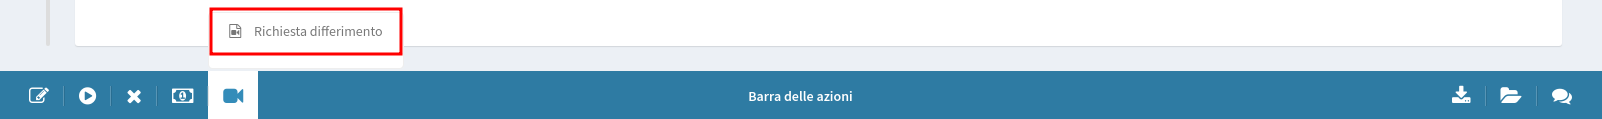
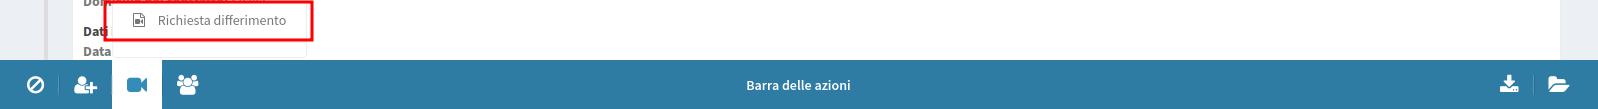
Definizione e provvedimento

diff --git a/manuale-operatore/introduzione/istanza.rst b/manuale-operatore/introduzione/istanza.rst
@@ -1,0 +1,79 @@
+Operazioni generiche sulle istanze
+==================================
+
+Assegnazione incaricato del procedimento
+~~~~~~~~~~~~~~~~~~~~~~~~~~~~~~~~~~~~~~~~
+
+.. _section-responsabile:
+
+Gli utenti con ruolo "Segretario operatore" dovranno assegnare un utente incaricato per ciascuna istanza. L'utente incaricato sarà coloui che potrà operare sull'istanza.
+
+L'incaricato può essere variato se necessario.
+
+.. figure:: /media/barra_azioni_responsabile.png
+   :align: center
+   :name: barra-azioni-responsabile
+   :alt: Assegna incaricato barra azioni
+   
+   Azioni - Assegnazione incaricato del procedimento
+
+Per assegnare un utente o variare quello presente premere su "Assegna incaricato" dalla barra delle azioni. Selezionare l'utente desiderato e premere "Assegna".
+
+Assegnazione ad altra segreteria
+~~~~~~~~~~~~~~~~~~~~~~~~~~~~~~~~
+
+Gli utenti con ruolo "Segretario operatore" potranno assegnare l'istanza ad altra segretria dell'operatore.
+
+.. figure:: /media/barra_azioni_segreteria.png
+   :align: center
+   :name: barra-azioni-segreteria
+   :alt: Assegnazione ad altra segreteria
+   
+   Azioni - Assegnazione ad altra segreteria
+
+Per assegnare un'altra segreteria selezionarla dall'elenco e premere "Assegna ad altra segreteria".
+
+Mancata adesione
+~~~~~~~~~~~~~~~~
+
+Gli utenti con ruolo "Segretario operatore" possono decidere di non aderire all'istanza.
+
+.. figure:: /media/barra_azioni_nonadesione.png
+   :align: center
+   :name: barra-azioni-nonadesione
+   :alt: Mancata adesione
+   
+   Azioni - Mancata adesione
+
+Richiesta inammissibilità/improcedibilità
+~~~~~~~~~~~~~~~~~~~~~~~~~~~~~~~
+
+Se l'istanza è ritenuta non valida, è possibile segnalarlo al Corecom/Agcom con relativa motivazione.
+
+Tale segnalazione sarà notificata alle parti e il Corecom/Agcom deciderà se accettare archiviando l'istanza oppure rifiutare tale osservazione facendo proseguire l'iter.
+
+.. figure:: /media/barra_azioni_inamm.png
+   :align: center
+   :name: barra-azioni-inamm
+   :alt: Richiesta inammissibilità/improcedibilità
+   
+   Azioni - Richiesta inammissibilità/improcedibilità
+
+Download fascicolo documentale
+~~~~~~~~~~~~~~~~~~~~~~~~~~~~~~
+
+Dalla varra delle azioni è possibile scaricare un file zip contentete tutti i documenti presenti sul fascicolo documentale.
+
+.. figure:: /media/barra_azioni_downfascicolo.png
+   :align: center
+   :name: barra-azioni-downfascicolo
+   :alt: Downloadf fascicolo barra azioni
+   
+   Azioni - Download fascicolo
+
+Firma
+~~~~~
+
+.. _section-firma:
+
+La firma dei verbali avvienete tramite OTP ricevuto per email o sms.

diff --git a/manuale-operatore/gu14/udienza.rst b/manuale-operatore/gu14/udienza.rst
@@ -1,0 +1,32 @@
+Udienza di definizione
+======================
+
+Il responsabile del procedimento, se necessario, può convocare l'udienza. In tal caso, sul :ref:`Fascicolo documentale <section-fascicolo-documentale>` sarà presente il verbale di convocazione e sul dettaglio del procedimento sarà indicata la data, l'ora e le modalità di svolgimento.
+Il giorno e l'ora di svolgimento dell'udienza saranno indicate anche sul dettaglio del procedimento.
+In caso di svolgimento dell'udienza in :ref:`virtual room <section-udienza-vr-gu14>`, il giorno prefisatto per l'udienza, sul dettaglio compariranno le informazioni utili per la partecipazione.
+
+Richiesta di differimento udienza
+~~~~~~~~~~~~~~~~~~~~~~~~~~~~~~~~~
+
+L'incaricato potrà richiedere il differimento della data di udienza in caso di giustificate motivazioni. Tale azione è possibile fino al giorno prima dell'udienza e se non è già in corso un'altra richiesta di differimento.
+
+.. figure:: /media/barra_azioni_richdifferimento.png
+   :align: center
+   :name: barra-azioni-richdifferimento
+   :alt: Richiesta differimento barra azioni
+   
+   Azioni - Richiesta differimento udienza
+
+.. figure:: /media/motivazione_richdifferimento.png
+   :align: center
+   :name: motivazione-richdifferimento
+   :alt: Motivazione richiesta differimento
+   
+   Motivazione richiesta differimento udienza
+
+Partecipazione all'udienza in virtual room
+~~~~~~~~~~~~~~~~~~~~~~~~~~~~~~~~~~~~~~~~~~
+
+.. _section-udienza-vr-gu14:
+
+Nel caso in cui il responsabile del procedimento abbia indicato come modalità di svolgimento la virtual room, il giorno dell'udienza compariranno sul dettaglio del procedimento il link e il numero di telefono per parteciparvi.

diff --git a/manuale-operatore/gu5.rst b/manuale-operatore/gu5.rst
@@ -1,4 +1,20 @@
 Istanza di provvedimento temporaneo (modello GU5)
 =================================================
 
+In questa sezione saranno analizzate le azioni possibili sui singoli provvedimenti temporanei, in funzione dello stato in cui si trova il provvedimento e da chi possono essere fatte.
 
+L'applicazione mostrerà solo i pulsanti delle operazioni permesse tenendo presente lo stato del provvedimento e il ruolo di chi lo sta visulaizzando:
+- **Guest**: può solo visualizzare i dati dei provvedimenti temporanei senza poter compiere alcuna operazione.
+- **Operatore**: può compiere tutte le azioni sui provvedimenti temporanei a lui assegnati.
+- **Segretario operatore**: può compiere tutte le azioni sui provvedimenti temporanei della segreteria di appartenenza.
+
+Entrando nel dettaglio del provvedimento temporaneo è possibile accedere alla barra delle azioni, nella quale sono presenti i pulsanti delle azioni disponibili e al fascicolo documentale.
+
+.. toctree::
+  :maxdepth: 3
+  :hidden:
+  :caption: Istanza di provvedimento temporaneo
+
+  gu5/fascicolo-documentale.rst
+  gu5/risposta-richistruttoria.rst
+  gu5/segn-ottemperanza.rst

diff --git a/manuale-operatore/gu14.rst b/manuale-operatore/gu14.rst
@@ -1,4 +1,19 @@
 Istanza di definizione (Modello GU14)
 =====================================
 
+In questa sezione saranno analizzate le azioni possibili sui singoli procedimenti di definizione, in funzione dello stato in cui si trova il procedimento e da chi possono essere fatte.
 
+L'applicazione mostrerà solo i pulsanti delle operazioni permesse tenendo presente lo stato del procedimento e il ruolo di chi sta visulaizzando il procedimento:
+- **Guest**: può solo visualizzare i dati della definizione senza poter compiere alcuna operazione.
+- **Responsabile operatore**: può compiere tutte le azioni sulle definizioni a lui assegnate.
+- **Operatore**: può compiere tutte le azioni sulle definizioni della segreteria di appartenenza.
+
+.. toctree::
+  :maxdepth: 3
+  :hidden:
+  :caption: Istanza di definizione
+
+  gu14/fascicolo-documentale.rst
+  gu14/memoriecontrodeduzioni.rst
+  gu14/risposta-richistruttoria.rst
+  gu14/udienza.rst

diff --git a/manuale-operatore/ug.rst b/manuale-operatore/ug.rst
@@ -4,7 +4,7 @@ Istanza di conciliazione (Modello UG)
 In questa sezione saranno analizzate le azioni possibili sui singoli procedimenti di conciliazione, in funzione dello stato in cui si trova il procedimento e da chi possono essere fatte.
 
 L'applicazione mostrerà solo i pulsanti delle operazioni permesse tenendo presente lo stato del procedimento e il ruolo di chi sta visulaizzado il procedimento:
-- *Guest*: può solo visualizzare i dati della conciliazione senza poter compiere alcuna operazione.
+- **Guest**: può solo visualizzare i dati della conciliazione senza poter compiere alcuna operazione.
 - **Responsabile operatore**: può compiere tutte le azioni sulle conciliaizoni a lui assegnate.
 - **Operatore**: può compiere tutte le azioni sulle conciliaizoni della segreteria di appartenenza.
 

diff --git a/manuale-operatore/menu/richieste-istruttorie.rst b/manuale-operatore/menu/richieste-istruttorie.rst
@@ -1,4 +1,6 @@
 Gestisci richieste istruttorie
 ==============================
 
-In questa sezione è mostrata la lista delle richieste istruttorie fatte dai responsabili Corecom/Agcom dei procedimenti. Da qui è possibile gestire tali richieste.
+Questa voce di menù è presente per gli utenti con profilo *Segretario operatore*.
+
+In questa sezione sono visibili le eventuali richieste di documentazione, fatte dai responsabili Corecom/Agcom, per procedimenti per cui l'operatore non è direttamente coinvolto.

diff --git a/manuale-operatore/gu14/risposta-richistruttoria.rst b/manuale-operatore/gu14/risposta-richistruttoria.rst
@@ -1,0 +1,7 @@
+Risposta a richiesta istruttoria
+================================
+
+Il responsabile del procedimento può richiedere all'operatore il caricamento di informazioni relative al procedimento.
+
+L'incaricato potrà visualizzare le richieste nel :ref:`Fascicolo documentale <section-fascicolo-documentale>` e rispondere da lì a tale richiesta.
+ 

diff --git a/manuale-operatore/gu5/risposta-richistruttoria.rst b/manuale-operatore/gu5/risposta-richistruttoria.rst
@@ -1,0 +1,7 @@
+Risposta a richiesta istruttoria
+================================
+
+Il responsabile del procedimento può richiedere all'operatore il caricamento di informazioni relative al procedimento.
+
+L'incaricato potrà visualizzare le richieste nel :ref:`Fascicolo documentale <section-fascicolo-documentale>` e rispondere da lì a tale richiesta.
+ 

diff --git a/manuale-operatore/gu5/segn-ottemperanza.rst b/manuale-operatore/gu5/segn-ottemperanza.rst
@@ -1,0 +1,6 @@
+Segnalazione ottemperanza
+=========================
+
+Dal :ref:`fascicolo documentale <section-fascicolo-documentale>` l'incaricato potrà comunicare l'avvenuta ottemperanza del procedimento emesso.
+
+Questa comunicaizone potrà essere fatta enrtro le 48 ore dall'emissione del provvedimento.

diff --git a/manuale-operatore/gu14/memoriecontrodeduzioni.rst b/manuale-operatore/gu14/memoriecontrodeduzioni.rst
@@ -1,0 +1,4 @@
+Inserimento memorie e controdeduzioni
+=====================================
+
+Le memorie e le controdeduzioni possono essere inserite nel :ref:`Fascicolo documentale <section-fascicolo-documentale>`. L'azione è possibile quando il procedimento si trova nella fase istruttoria.

diff --git a/manuale-operatore/gu14/fascicolo-documentale.rst b/manuale-operatore/gu14/fascicolo-documentale.rst
@@ -1,0 +1,4 @@
+Fascicolo documentale
+=====================
+
+Tutti i documenti relativi al procedimento sono visibili nel fascicolo documentale. Per maggiore dettagli consultare la sezione :ref:`Fascicolo documentale <section-fascicolo-documentale>`.

diff --git a/manuale-operatore/gu5/fascicolo-documentale.rst b/manuale-operatore/gu5/fascicolo-documentale.rst
@@ -1,0 +1,4 @@
+Fascicolo documentale
+=====================
+
+Tutti i documenti relativi al procedimento sono visibili nel fascicolo documentale. Per maggiore dettagli consultare la sezione :ref:`fascicolo documentale <section-fascicolo-documentale>`.
